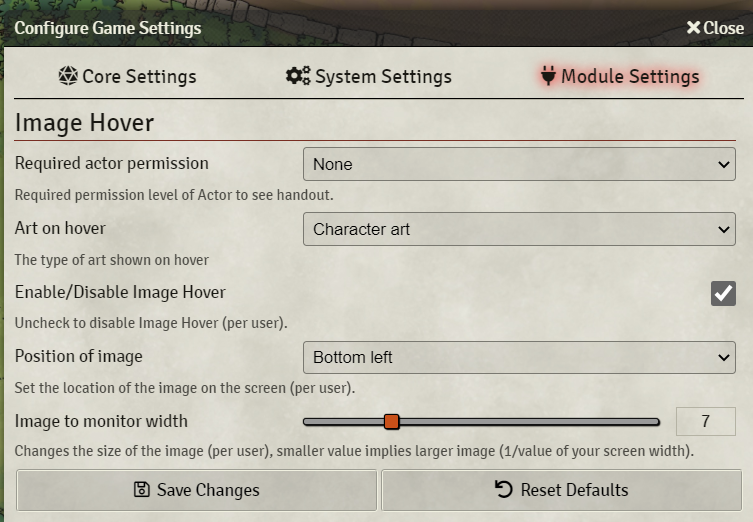
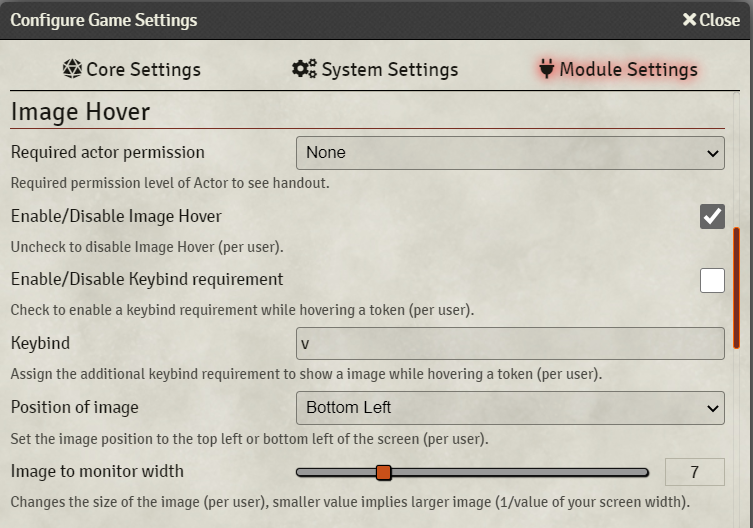
V13 compatibility(#78)
* Fix pathing for BasePlaceableHUD

* Update image-hover-settings.PNG

* V13 Compatibility

* Update minimum and verified compatibility, I won't update the versioning (I'll let the base module do that)

* Remove unnecessary console logging

Changed region(s): [[0.0, 0.0, 1.0, 1.0]]

diff --git a/image-hover.js b/image-hover.js
@@ -1,4 +1,5 @@
 import { Settings } from "./settings.js";
+const { ApplicationV2, HandlebarsApplicationMixin } = foundry.applications.api
 
 /**
  * Default settings
@@ -54,25 +55,26 @@ function registerShowArtSocket() {
 /**
  * Copy Placeable HUD template
  */
-class ImageHoverHUD extends BasePlaceableHUD {
-  /**
-   * Retrieve and override default options for BasePlaceableHUD
-   */
-  static get defaultOptions() {
-    return foundry.utils.mergeObject(super.defaultOptions, {
-      id: "image-hover-hud",
-      classes: [...super.defaultOptions.classes, "image-hover-hud"],
-      minimizable: false,
-      resizable: true,
-      template: "modules/image-hover/templates/image-hover-template.html", // HTML template
-    });
+class ImageHoverHUD extends HandlebarsApplicationMixin(foundry.applications.hud.BasePlaceableHUD) {
+  static DEFAULT_OPTIONS = {
+    ...super.DEFAULT_OPTIONS,
+    classes: ['image-hover-hud'],
+    window: {
+      resizable: true
+    }
+  }
+
+  static PARTS = {
+    body: {
+      template: "modules/image-hover/templates/image-hover-template.html"
+    }
   }
 
   /**
    * Get image data for html template
    */
-  getData() {
-    const data = super.getData();
+  async _prepareContext () {
+    const data = await super._prepareContext()
     const tokenObject = this.object;
     let image = tokenObject.actor.img; // Character art
     const isWildcard = tokenObject.actor.prototypeToken.randomImg;
@@ -154,7 +156,7 @@ class ImageHoverHUD extends BasePlaceableHUD {
     ) {
       // If no character art exists, use token art instead.
       if (this.object.document.texture.src == DEFAULT_TOKEN) {
-        canvas.hud.imageHover.clear();
+        canvas.hud.imageHover.close();
         return;
       }
       url = this.object.document.texture.src; // Token art
@@ -230,13 +232,11 @@ class ImageHoverHUD extends BasePlaceableHUD {
       imageWidth,
       imageHeight
     ); // move image to correct verticle position.
-    const position = {
-      // CSS
-      width: imageWidthScaled,
-      left: xAxis,
-      top: yAxis,
-    };
-    this.element.css(position); // Apply CSS to element
+
+    // Apply CSS to element
+    this.element.style.width = `${imageWidthScaled}px`
+    this.element.style.left = `${xAxis}px`
+    this.element.style.top = `${yAxis}px`
   }
 
   /**
@@ -382,8 +382,7 @@ class ImageHoverHUD extends BasePlaceableHUD {
 
     if (
       hovered &&
-      (canvas.activeLayer.name == "TokenLayer" ||
-        canvas.activeLayer.name == "TokenLayerPF2e")
+      (canvas.activeLayer instanceof foundry.canvas.layers.TokenLayer)
     ) {
       // Show token image if hovered, otherwise don't
       setTimeout(function () {
@@ -393,11 +392,11 @@ class ImageHoverHUD extends BasePlaceableHUD {
         ) {
           canvas.hud.imageHover.bind(token);
         } else {
-          canvas.hud.imageHover.clear();
+          canvas.hud.imageHover.close();
         }
       }, delay);
     } else {
-      this.clear();
+      this.close();
     }
   }
 
@@ -415,7 +414,7 @@ class ImageHoverHUD extends BasePlaceableHUD {
       clearTimeout(timer); //reset timer if key is pressed again
       timer = setTimeout(function () {
         showSpecificArt = false;
-        canvas.hud.imageHover.clear();
+        canvas.hud.imageHover.close();
       }, showArtTimer); //after set amount of time, clear image
     }
   }
@@ -424,9 +423,11 @@ class ImageHoverHUD extends BasePlaceableHUD {
 /**
  * Add Image Hover display to html on load.
  */
-Hooks.on("renderHeadsUpDisplay", (app, html, data) => {
-  html[0].style.zIndex = 70;
-  html.append(`<template id="image-hover-hud"></template>`);
+Hooks.on("renderHeadsUpDisplayContainer", (app, html, data) => {
+  html.style.zIndex = 70;
+  const template = document.createElement('template');
+  template.id = 'image-hover-hud';
+  html.appendChild(template)
   canvas.hud.imageHover = new ImageHoverHUD();
 
   /**
@@ -471,7 +472,7 @@ Hooks.on("createToken", (token, options, userId) => {
 Hooks.on("hoverToken", (token, hovered) => {
   if (showSpecificArt || canvas.hud.imageHover === undefined) return;
   if (!hovered) {
-    canvas.hud.imageHover.clear();
+    canvas.hud.imageHover.close();
     return;
   }
 
@@ -498,32 +499,46 @@ const renderHoverSetting = async (app, html, data) => {
    * Ensure flag is updated on "update" and correct value is shown when changed.
    */
   if (data.isGM) {
-    let hideImageStatus = app.token.getFlag("image-hover", "hideArt")
-      ? "checked"
-      : "";
-    let specificImageStatus = app.token.getFlag("image-hover", "specificArt")
-      ? app.token.getFlag("image-hover", "specificArt")
-      : "path/image.png";
+    const token = app.token;
+
+    const hideImageStatus = (await token.getFlag('image-hover', 'hideArt')) ? 'checked' : '';
+    const specificImageStatus = (await token.getFlag('image-hover', 'specificArt')) || 'path/image.png';
 
     data.hideHoverStatus = hideImageStatus;
     data.specificArtStatus = specificImageStatus;
 
-    const nav = html.find(`div[data-tab="appearance"]`);
+    // Convert html to native DOM element if it's a jQuery object
+    const rootEl = html instanceof jQuery ? html[0] : html;
+
+    // Find the tab content container
+    const nav = rootEl.querySelector('div[data-tab="appearance"]');
     const contents = await renderTemplate(
-      "modules/image-hover/templates/image-hover-token-config.html",
+      'modules/image-hover/templates/image-hover-token-config.html',
       data
     );
-    nav.append(contents);
-    app.setPosition({ height: "auto" });
 
-    html.find("button.image-hover-picker-button").click(async () => {
-      new FilePicker({
-        type: "imagevideo",
-        callback: async (path) => {
-          html.find("input.specific-image-hover").val(path);
-        },
-      }).render();
-    });
+    // contents is assumed to be HTML string, so parse it
+    const wrapper = document.createElement('div');
+    wrapper.innerHTML = contents;
+    while (wrapper.firstChild) {
+      nav.appendChild(wrapper.firstChild);
+    }
+
+    app.setPosition({ height: 'auto' });
+
+    // Attach click handler for the image picker button
+    const pickerButton = rootEl.querySelector('button.image-hover-picker-button');
+    if (pickerButton) {
+      pickerButton.addEventListener('click', async () => {
+        new FilePicker({
+          type: 'imagevideo',
+          callback: async (path) => {
+            const input = rootEl.querySelector('input.specific-image-hover');
+            if (input) input.value = path;
+          },
+        }).render();
+      });
+    }
   }
 };
 Hooks.on("renderTokenConfig", renderHoverSetting);
@@ -533,7 +548,7 @@ Hooks.on("renderTokenConfig", renderHoverSetting);
  */
 function clearArt() {
   if (!showSpecificArt && canvas.hud.imageHover) {
-    canvas.hud.imageHover.clear();
+    canvas.hud.imageHover.close();
   }
 }
 

diff --git a/settings.js b/settings.js
@@ -76,7 +76,7 @@ export class Settings {
       type: Boolean, // Value type
       default: true, // The default value for the setting
       onChange: (value) => {
-        canvas.hud.imageHover.clear();
+        canvas.hud.imageHover.close();
       },
     });
 
